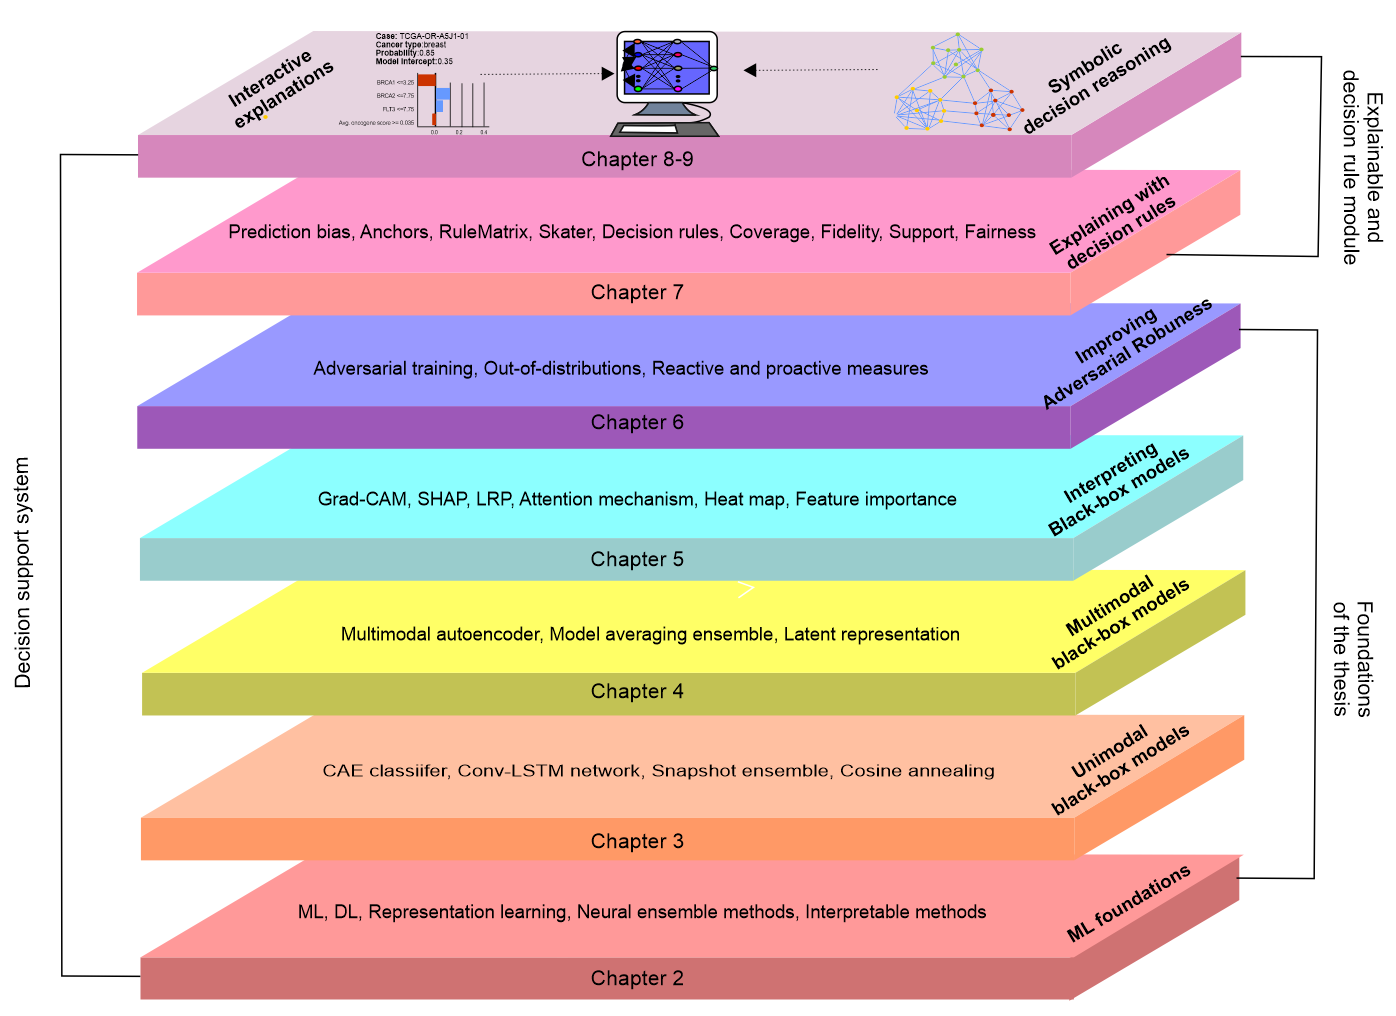
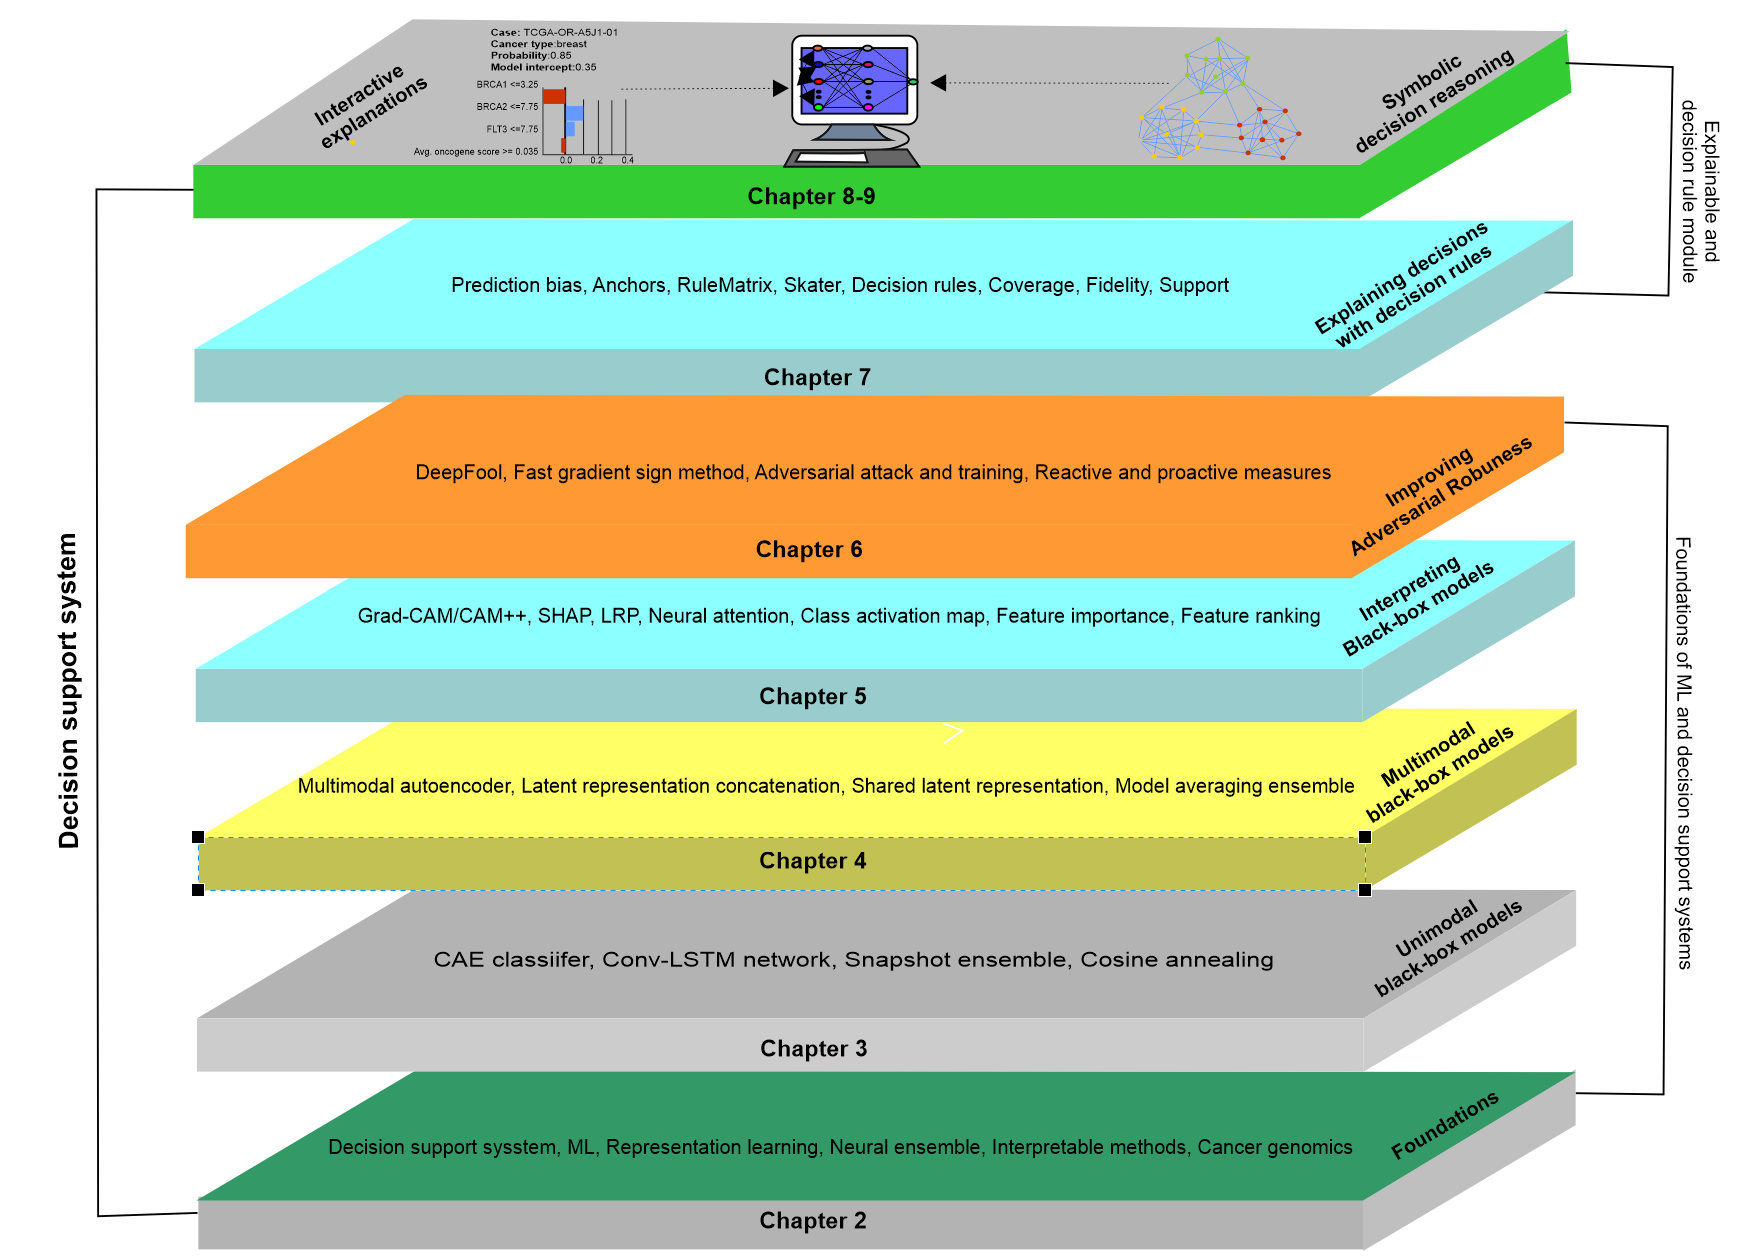
Updates from Overleaf

diff --git a/Introduction/introduction.tex b/Introduction/introduction.tex
@@ -221,11 +221,17 @@ The candidate participated several conferences as the part of the journey of thi
 \end{enumerate}
 
 \subsection{Implementations}
-All the codes in the preceding publications were written by the candidate. The candidate relied on existing libraries such as Keras, Sciket-learn, TensorFlow, PyTorch, DeepLearning4j, Apache Spark, and SHAP. All programs were implementation in Python. The software stack comprising Scikit-learn and Keras with the TensorFlow backend. Networks were trained on two computers: i) i7 CPU core, 32GB of RAM, Ubuntu 16.04 OS and Nvidia GTX 1050i GPU, ii) Intel(R) Xeon(R) CPU E5-2640, 256 of RAM, Ubuntu 16.04 OS. 
+All the codes in the preceding publications were written by the candidate, where programs were implemented in Python. The candidate also relied on existing libraries such as Keras, sciket-learn, TensorFlow, Apache Spark, and SHAP. %All programs were implementation in Python. 
+%Software stack consist of scikit-learn and Keras with the TensorFlow backend. 
+Networks were trained on an computer of Intel(R) Xeon(R) CPU E5-2640, 256 of RAM, Ubuntu 16.04 OS. 
 %In both machines, the CUDA and cuDNN enabled to make the overall pipeline faster. 
-
-\hspace*{3.5mm} Besides semantic web technologies such as OWL, RDF, SPARQL, Jena, RDF4J, Fuseki, Virtuoso also utilized to some extent in certain publications. GitHub was extensively used for the  version control. 
+Besides semantic web technologies such as OWL, RDF, SPARQL, Jena, RDF4J, Fuseki, Virtuoso also utilized to some extent in certain publications. GitHub was extensively used for the  version control. 
 Also, the Flask framework was used for wrapping up the explainable models and serving as an explainable interface. All the implementations were made open-source with a focus of reproduciblity. The GitHub page of the implementations can be found at \url{https://github.com/rezacsedu}.
+
+\section{Thesis Outline} \label{structure}
+The rest of the thesis is structured into ten chapters. 
+%The brief overview of each chapter is as followed: 
+\Cref{chapter:preli} covers the foundations and concepts that will be used in the subsequent chapters. In \cref{chapter:uni_modality}, we develop predictive model based on single modality towards finding the association between CNV data and cancer, followed by the cancer type prediction task. In \cref{chapter:multiodality}, we extend the single modality based predictive model to multimodality-based cancer typing method by employing a multimodal neural network, but with a focus of breast cancer. In \cref{chapter:xai}, we employed two different approaches to open the `black box' uni/multimodal models towards making them explainable predictions of cancer types based on different genomics data. Besides, we identify significant biomarkers and computed feature importance in terms of mean absolute impact to rank top genes across all the cancer types. In \cref{chapter:robustness}, we apply different types of adversarial attacks on our models, including image content moderation, numeric data moderation, and out-of-distribution, followed by assessing the robustness against these scenario. 
 
 \begin{figure*}[h]
 	\centering
@@ -233,9 +239,6 @@ Also, the Flask framework was used for wrapping up the explainable models and se
 		\caption{A bottom-up layout of the thesis, outlining the chapters}
         \label{fig:chapter_organization}
 \end{figure*}
-
-\section{Thesis Outline} \label{structure}
-The rest of the thesis is structured into ten chapters. The brief overview of each chapter is as followed: \cref{chapter:preli} covers the foundations and concepts that will be used in the subsequent chapters. In \cref{chapter:uni_modality}, we develop predictive model based on single modality towards finding the association between CNV data and cancer, followed by the cancer type prediction task. In \cref{chapter:multiodality}, we extend the single modality based predictive model to multimodality-based cancer typing method by employing a multimodal neural network, but with a focus of breast cancer. In \cref{chapter:xai}, we employed two different approaches to open the `black box' uni/multimodal models towards making them explainable predictions of cancer types based on different genomics data. Besides, we identify significant biomarkers and computed feature importance in terms of mean absolute impact to rank top genes across all the cancer types. In \cref{chapter:robustness}, we apply different types of adversarial attacks on our models, including image content moderation, numeric data moderation, and out-of-distribution, followed by assessing the robustness against these scenario. 
 
 \hspace*{3.5mm} In \cref{chapter:xai_rules}, we generate decision rules by combining model predictions and interpretations. Additionally, we identify  misclassified instances~(i.e., initial prediction by the model). In \cref{chapter:nsr}, we develop a  domain-specific ontology. Based on the biomarkers and their attributes, the reasoner tries to decide whether a biological entity is of correct types based on the ontological reasoning. The reasoner also help validate the findings and decision rules in order to deduce human-understandable decision rules in \cref{chapter:xai_rules}. In \cref{chapter:fairness}, we assess both explainability and fairness of our approach from statistical and philosophical perspective. \Cref{chapter:end} provides explanations and points out the relevance of the study, highlights its limitations and discusses future works before concluding the dissertation. 
 

diff --git a/Robustness/robustness.tex b/Robustness/robustness.tex
@@ -51,7 +51,7 @@ Till date numerous approaches have been proposed on creating adversarial samples
     \label{eq:fgsm_eta}
 \end{align}
 
-\hspace*{3.5mm} where $\epsilon$ is the magnitude of the perturbation, which is is computed using back-propagation. The corresponding adversarial example of sample $x$ is $x^{\prime}$, which is calculated as $x^{\prime}=x+\eta$~\cite{yuan2019adversarial}. On the other hand, literature~\cite{rozsa2016adversarial} proposed called called Fast Gradient Value Method~(FGVM) to improve FGSM. In FGVM, the sign of gradient in FGSM is replaced with the raw gradient: $\eta=\nabla_{x} J(\theta, x, l)$. The effectiveness of FGVM relies in it's agnostic nature on constraints on each pixel, hence AEx can be generated with a larger local difference~\cite{yuan2019adversarial}. Since one-step attack is not only easy to transfer to another domain but also also easy to defend~\cite{yuan2019adversarial}, Dong. Y., et al.~\cite{dong2018boosting}, improve FGSM method in which momentum is applied to generate AEx more iteratively, where the gradients were calculated by:
+\hspace*{3.5mm} where $\epsilon$ is the magnitude of the perturbation, which is is computed using back-propagation. The corresponding adversarial example of sample $x$ is $x^{\prime}$, which is calculated as $x^{\prime}=x+\eta$~\cite{yuan2019adversarial}. On the other hand, literature~\cite{rozsa2016adversarial} proposed called called Fast Gradient Sign Method~(FGSM) to improve FGSM. In FGSM, the sign of gradient in FGSM is replaced with the raw gradient: $\eta=\nabla_{x} J(\theta, x, l)$. The effectiveness of FGSM relies in it's agnostic nature on constraints on each pixel, hence AEx can be generated with a larger local difference~\cite{yuan2019adversarial}. Since one-step attack is not only easy to transfer to another domain but also also easy to defend~\cite{yuan2019adversarial}, Dong. Y., et al.~\cite{dong2018boosting}, improve FGSM method in which momentum is applied to generate AEx more iteratively, where the gradients were calculated by:
 
 \vspace{-6mm}
 \begin{align}
